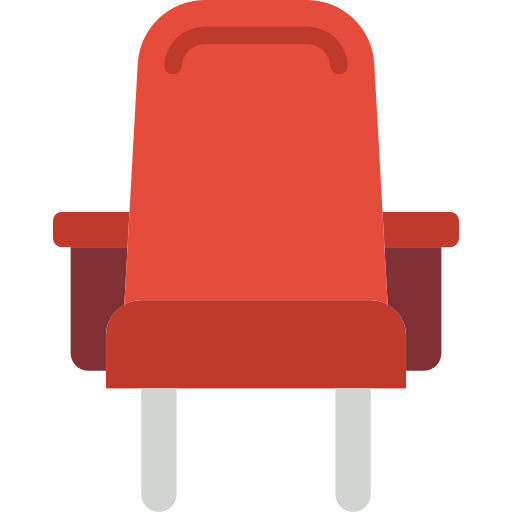
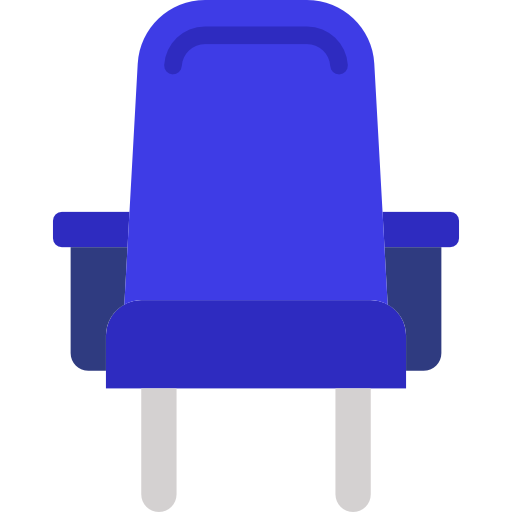
seat reservation is ALLLmost done missing: if customer doesn't exist. create new

diff --git a/seatSelection.js b/seatSelection.js
@@ -3,25 +3,30 @@ const bigTheatreRows = 25
 const bigTheatreSeatsPerRow = 16
 const smallTheatreRows = 20
 const smallTheatreSeatsPerRow = 12
+const blueSeatPrice = 110
+const vipSeatPrice = 122
+const seatIdContainer = document.querySelector(".seat-id")
 
 let selectedSeatsIDs = []
 let selectedSeats = []
 let occupiedSeatIds = []
 let movieId = 0
 let theaterId = 0
+let totalPrice = 0
 
 //data the html/Javascript needs to function
-const showingId = 2
-
+const showingId = 1
 
 //URL for fetching
 const getShowingWithId = "http://localhost:8080/showing/"
 const getMovieWithId = "http://localhost:8080/movie/"
+const getMovieWithIdNEW = "http://localhost:8080/api/movies/movieid/"
 const getAllTickets = "http://localhost:8080/tickets"
+const saveSeatsUrl = "http://localhost:8080/ticket"
 
 //methods to get the shit going
 fetchTickets(getAllTickets)
-fetchShowing(getShowingWithId, showingId)
+
 
 function fetchShowing(fetchUrl, id) {
     fetch(fetchUrl + id)
@@ -68,6 +73,7 @@ function fetchTickets(fetchUrl) {
         }).then(body => {
         occupiedSeatIds = body.filter(ticket => ticket.showingId === showingId).map(ticket => ticket.seatId);
         console.log("occupied seats ids: " + occupiedSeatIds)
+        fetchShowing(getShowingWithId, showingId)
     })
 }
 
@@ -75,7 +81,7 @@ function fetchTickets(fetchUrl) {
 function inputMovieInfo(movieBody) {
     const movieName = document.getElementById("movieName")
     const theaterName = document.getElementById("theaterName")
-    movieName.innerHTML = "Movie name: " + movieBody.movieName
+    movieName.innerHTML = movieBody.movieName
     theaterName.innerHTML = "Theater number: " + theaterId
 }
 
@@ -86,9 +92,9 @@ function createSeats(rows, seatsPerRow) {
     //this 'if' sets the initial value of the first seat. This must match the DB seat table.
     //SO if bigTheatre = true. first seat_id must be 241 according to the seat table
     let seatId
-    if (theaterId === 1){
+    if (theaterId === 1) {
         seatId = 1;
-    }else {
+    } else {
         seatId = 241;
     }
 
@@ -103,10 +109,13 @@ function createSeats(rows, seatsPerRow) {
         for (let j = 1; j <= seatsPerRow; j++) {
             const seat = document.createElement('td')
             const seatButton = document.createElement('button')
-            seatButton.innerHTML = "<img class='seat' src='icons/seat.png'/>"
 
             if (i >= rows - 10) {
-                seatButton.classList.add('vipSeat')
+                seatButton.classList.add("vipSeat")
+                seatButton.innerHTML = "<img class='vipSeat' src='icons/vipSeat.png'/>"
+            } else {
+                seatButton.classList.add("seat")
+                seatButton.innerHTML = "<img class='seat' src='icons/seat.png'/>"
             }
 
             if (!occupiedSeatIds.includes(seatId)) {
@@ -127,12 +136,16 @@ function createSeats(rows, seatsPerRow) {
 }
 
 function selectSeat(seatButton, row, seatNum) {
-    const seatInfo = row + "-" + seatNum;
+    const seatInfo = "Row: " + row + ", Seat: " + seatNum;
     if (!seatButton.classList.contains("selected")) {
+        sideBarTicketManager(seatInfo, true)
+        updateTotalPrice(seatButton, true)
         selectedSeatsIDs.push(seatButton.id)
         selectedSeats.push(seatInfo)
         seatButton.classList.toggle('selected')
     } else {
+        sideBarTicketManager(seatInfo, false)
+        updateTotalPrice(seatButton, false)
         const seatToRemoveID = selectedSeatsIDs.indexOf(seatButton.id)
         if (seatToRemoveID !== -1) {
             selectedSeatsIDs.splice(seatToRemoveID, 1)
@@ -143,11 +156,77 @@ function selectSeat(seatButton, row, seatNum) {
     console.log(selectedSeatsIDs)
     console.log(selectedSeats)
 }
-function saveSelectedSeats(){
-    //TODO
-    //TODO save selectedSeatsIDs with customerPhone, showingId, seat_id
+
+function sideBarTicketManager(seatInfo, toAdd) {
+    if (toAdd) {
+        const seatDiv = document.createElement("div")
+        seatDiv.classList.add('ticketDiv')
+        const ticketNumber = document.createElement("h3")
+        ticketNumber.innerText = seatInfo
+        seatDiv.appendChild(ticketNumber)
+        seatIdContainer.appendChild(seatDiv)
+    } else {
+        const children = seatIdContainer.children;
+        for (let i = 0; i < children.length; i++) {
+            const child = children[i];
+            if (child.innerText.includes(seatInfo)) {
+                seatIdContainer.removeChild(child);
+                break;
+            }
+        }
+    }
 }
 
+function updateTotalPrice(seat, toAdd) {
+    if (seat.classList.contains('seat') && toAdd === true) {
+        totalPrice = totalPrice + blueSeatPrice //add blue price
+    } else if (seat.classList.contains('seat') && toAdd === false) {
+        totalPrice = totalPrice - blueSeatPrice //remove blue price
+    } else if (seat.classList.contains('vipSeat') && toAdd === true) {
+        totalPrice = totalPrice + vipSeatPrice //add vipPrice
+    } else if (seat.classList.contains('vipSeat') && toAdd === false) {
+        totalPrice = totalPrice - vipSeatPrice //remove vipPrice
+    }
+    console.log("totalPrice is: " + totalPrice)
+}
+
+function saveSelectedSeats(customerPhone) {
+    //TODO need to POST CUSTOMER before ticket
+    //TODO IF customer already exist use that one ELSE put new in customer table
+
+    //iterates over the selectedSeatsIDs.length to add one ticket at a time from the list.
+    //I don't think the fetch can POST a whole list at a time... :)
+    for (let i = 0; i < selectedSeatsIDs.length; i++) {
+        console.log("i: " + i + ", selected seat id: " + selectedSeatsIDs[i])
+        const data = {
+            customerPhone: customerPhone,
+            showingId: showingId,
+            seatId: selectedSeatsIDs[i]
+        };
+        console.log(data)
+        fetch(saveSeatsUrl, {
+            method: 'POST',
+            headers: {
+                'Content-Type': 'application/json'
+            },
+            body: JSON.stringify(data)
+        })
+            .then(response => {
+                if (!response.ok) {
+                    throw new Error('Network response was not ok');
+                }
+                return response.json();
+            })
+            .then(data => {
+                console.log('Seats saved successfully:', data);
+            })
+            .catch(error => {
+                console.error('Error saving seats:', error);
+            });
+        window.location.reload();
+    }
+
+}
 
 // document.getElementById("clickable").onclick = () => {
 //
@@ -158,8 +237,11 @@ function saveSelectedSeats(){
 // }
 
 function addPhoneNumber() {
-    // const styling = $("#container")
-    // let phoneNumber = styling.prompt("Please connect your phone number : ")
-    let phoneNumber = prompt("Please connect your phone number : ")
-    console.log("The phone number : " + phoneNumber)
+    if (selectedSeatsIDs.length === 0) {
+        alert("Click on the seats to reserve them")
+    } else {
+        let phoneNumber = prompt("Total price is " + totalPrice + "kr.\n Please write your phone number to reserve the tickets: ")
+        console.log("The phone number : " + phoneNumber)
+        saveSelectedSeats(phoneNumber)
+    }
 }

diff --git a/style.css b/style.css
@@ -336,7 +336,7 @@ nav input{
 .page-content {
     height: 100vh;
     text-align: center;
-    margin: 0 auto;
+    margin: 10vh auto;
     border: 0;
     outline: 0;
 }
@@ -350,12 +350,7 @@ html, body, section {
 /*}*/
 
 section {
-    scroll-snap-align: start;
-    scroll-snap-stop: always;
     display: flex;
-    align-items: center;
-    justify-content: center;
-    flex-direction: column;
 }
 
 /* The Modal (background) */
@@ -493,9 +488,9 @@ section {
     text-align: center;
 }
 .sideBar {
-
-    width: 33vh;
+    width: 40vh;
     background: #333;
+    height: 140%;
 }
 
 .section-generator {
@@ -506,8 +501,9 @@ section {
     justify-content: center;
 }
 .sideBarContent{
-    margin: 11vh 1vw 1vh 1vw;
+    margin: 1vh 1vw 1vh 1vw;
     border: 1px solid #fff;
+    padding: 1vh;
 }
 
  .seat {
@@ -515,14 +511,15 @@ section {
     height: 25px;
     border-top-left-radius: 10px;
     border-top-right-radius: 10px;
-     filter: hue-rotate(235deg);
+     /*filter: hue-rotate(235deg);*/
+     /*filter: hue-rotate(300deg);*/
 }
  .vipSeat{
      width: 30px;
      height: 25px;
      border-top-left-radius: 10px;
      border-top-right-radius: 10px;
-     filter: hue-rotate(50deg);
+     /*filter: hue-rotate(50deg);*/
  }
 .seatButtonOccupied{
     background-color: transparent;
@@ -547,6 +544,12 @@ section {
 
  .seatDiv {
      margin-top: 10px;
+ }
+ .ticketDiv{
+     border: gray;
+     border-style: solid;
+     padding: 1vh;
+     margin: 1vh;
  }
 .selectedSeatInfoDiv{
     width: 20%;
@@ -575,14 +578,6 @@ section {
     background-color: rgb(0,0,0); /* Fallback color */
     background-color: rgba(0,0,0,0.4); /* Black w/ opacity */
 }
-.sideBar {
-    width: 33vh;
-    background: #333;
-}
-.sideBarContent{
-    margin: 11vh 1vw 1vh 1vw;
-    border: 1px solid #fff;
-}
 .seat-flexbox{
     display: flex;
     flex-direction: column;
@@ -604,8 +599,9 @@ section {
     flex: 1;
     display: flex;
     flex-direction: row;
-    align-items: center;
+    align-items: start;
     justify-content: center;
+    /*margin-top: 50vh;*/
 }
 
 #containerPOP {

diff --git a/reserveSeats.html b/reserveSeats.html
@@ -92,23 +92,37 @@
 
 </nav>
 
-<div>
+
+<div class="page-content">
     <section>
-
-        <div id="info" class="seatInfoDiv">
-            <h1>Reserve Tickets</h1>
-            <h2 id="movieName">{Movie name}</h2>
-            <h2 id="theaterName">{Theater}</h2>
-            <div class="canvasBlock"></div>
+        <div class="sideBar">
+            <div class="sideBarContent">
+                <h3 id="movieName">{Movie name}</h3>
+                <h3 id="theaterName">{Theater number}</h3>
+            </div>
+            <div class="sideBarContent">
+                <h2>Tickets:</h2>
+                <div class="seat-flexbox">
+                    <div class="seat-id"></div>
+                </div>
+                <input type="button" value="Reserve Tickets" onclick="addPhoneNumber()"/>
+            </div>
         </div>
 
-        <div id="seatDiv" class="seatDiv">
+        <!--        <div id="info" class="seatInfoDiv">-->
+        <!--            <h1>Reserve Tickets</h1>-->
+        <!--            <h2 id="movieName">{Movie name}</h2>-->
+        <!--            <h2 id="theaterName">{Theater number}</h2>-->
+        <!--            <div class="canvasBlock"></div>-->
+        <!--        </div>-->
 
+        <div class="section-generator">
+            <div id="seatDiv" class="seatDiv"></div>
         </div>
-        <input type="button" value="Next" onclick="addPhoneNumber()"/>
+
 
         <script src="seatSelection.js"></script>
-            </section>
+    </section>
 </div>
 
 </body>
